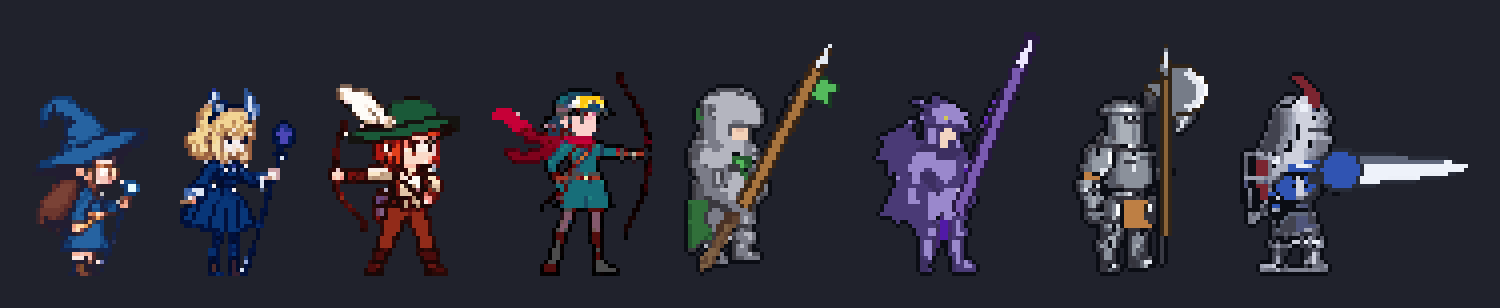
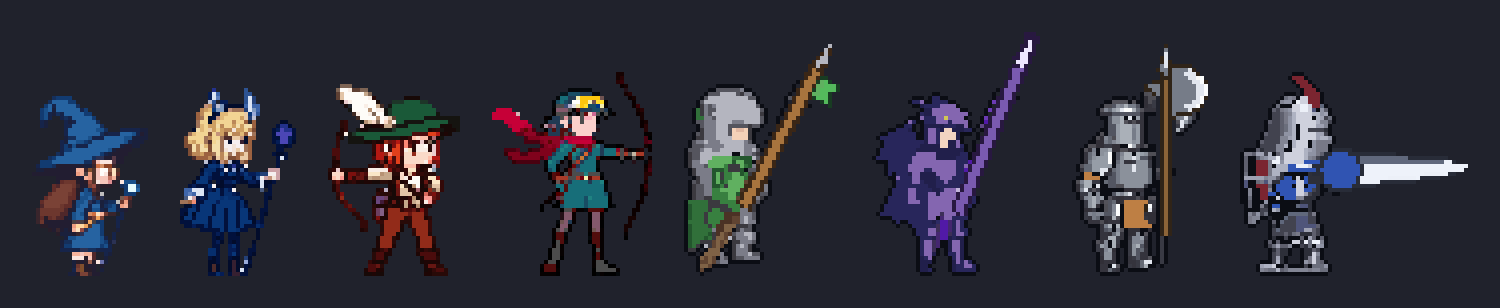
창기사 계열: 용기병 남색·라벤더, 창기사 녹색 보강, 관절 애니 시험(창기사 찌르기 8f) 합격 3.86

Changed region(s): [[0.5827, 0.3214, 0.6747, 0.9058], [0.46, 0.4968, 0.5213, 0.7305], [0.5213, 0.1753, 0.552, 0.2045]]

diff --git a/dev/review/sheets-spear.html b/dev/review/sheets-spear.html
@@ -37,6 +37,14 @@
   </ul>
 </div>
 
+<h2>◇ 관절 애니 시험 — 창기사 찌르기 8f (2026-10-17, PixelLab usage 4)</h2>
+<div class="box"><ol><li>첫 프레임 = <b>pixen 중립 대기</b>(무기 없음·팔 내림, usage 1) — 레인저 교훈: 무기를 든 첫 프레임은 팔 관절을 안 따른다.</li>
+<li><code>dev/spear/skelfit.py</code>: 설계 찌르기(<code>skel.py</code>)의 뼈 <b>각도</b> + 첫 프레임 그림에서 읽은 뼈 <b>길이</b>, 다리는 발을 땅에 두고 무릎 역산 → animate-with-skeleton-v3 192칸 8f (usage 3).</li>
+<li><code>dev/spear/anim_post.py</code>: 2×2 최빈색으로 96칸 → 128칸 발 x 36 → 그림에서 손(살색 덩어리)을 찾아 그 직선으로 모델 창 지우기 → 코드 창 → 8프레임 공통 팔레트 22색.</li>
+<li>검수: 1차 3.14 fix(창이 손보다 3칸 위 — 관절 좌표·갈색 직선 기준) → 손 찾기로 고쳐 <b>3.86 pass</b> (4/4/4/4/4/3/4). 남은 흠: 젖히는 예비동작·팔 뻗음이 약함.</li></ol></div>
+<div class="scroll box"><img class="px" src="sheets-spear/anim/anim-lancer-thrust.gif" alt="창기사 찌르기"> <img class="px" src="sheets-spear/anim/anim-lancer-thrust.png" alt="8프레임" style="max-width:100%"></div>
+<p class="sub"><a href="sheets-spear/anim/lancer-thrust-sheet.png">검수 시트</a> · <a href="sheets-spear/anim/stick-fit-lancer-thrust.png">관절 맞춤 막대 인형</a></p>
+
 <h2>◆ 도트 검수 합격 4종 — 사용자 검수 반영판 (2026-10-17) · 창기사 · 용기병 · 할버디어 · 랜서</h2>
 <div class="box"><b>사용자 검수 반영</b>: "용기병은 사람기사로가야해" → 사람 기사 + 용 투구(얼굴 보임), 꼬리 없음 · 할버디어 허벅지 살색 → 천 서코트 · 랜서 사탕 줄무늬 랜스 → 은색 원뿔 + 파란 손잡이·보호대.
 <ol><li>재검수(r2)에서 같은 그림이 "6등신 사실 비율"로 지적돼 3등신 큰 머리 문구(<code>design5.py CHIBI</code>)로 다시 생성(v11) → 할버디어·랜서 합격.</li>

diff --git a/dev/spear/anim_post.py b/dev/spear/anim_post.py
@@ -1,0 +1,124 @@
+# 관절 애니 결과 후처리 (창 계열): work/<cls>/skel-<act>-<i>.png (192) → 96칸(2×2 최빈색) → 모델이 그린 창 지우기 → 코드 창 얹기
+#  창 위치·각도는 skelfit.py 가 남긴 skel/wpn-<cls>-<act>.json(앞손·뒷손, 192 좌표)에서. 모델 창은 프레임마다 모양이 달라(철퇴처럼 되기도) 쓰지 않는다.
+#   python -I -B anim_post.py <cls> <act>  → work/<cls>/anim-<act>-<i>.png, out/anim-<cls>-<act>.png(줄), out/anim-<cls>-<act>.gif
+import os, sys, json, math
+from collections import Counter
+from PIL import Image
+HERE = os.path.dirname(os.path.abspath(__file__)); sys.path.insert(0, HERE); sys.path.insert(0, os.path.join(HERE, '..', 'sheets-common'))
+import design5 as D5
+from wpn import line_fit, near_line, fill_holes
+WPN = {'lancer': 'spear', 'dragoon': 'dragon', 'halberdier': 'halberd', 'cavalier': 'lance'}
+
+
+def half(im):
+    """192 → 96: 2×2 칸 중 가장 많은 색 (투명이 2칸 이상이면 투명)"""
+    W, H = im.width // 2, im.height // 2; P = im.load(); o = Image.new('RGBA', (W, H)); O = o.load()
+    for y in range(H):
+        for x in range(W):
+            cs = [P[2 * x + a, 2 * y + b] for a in (0, 1) for b in (0, 1)]
+            op = [c for c in cs if c[3] >= 128]
+            if len(op) >= 2: O[x, y] = Counter(c[:3] for c in op).most_common(1)[0][0] + (255,)
+    return o
+
+
+def hands(im):
+    """그림에서 손 찾기: 살색 덩어리 중 맨 위(얼굴)를 뺀 나머지 = 손 [(x, y, 칸들)] (x 큰 순 = 앞손 먼저)"""
+    from pix import POL_comps
+    P = im.load(); W, H = im.size; sk = Image.new('RGBA', im.size); S = sk.load()
+    for y in range(H):
+        for x in range(W):
+            c = P[x, y]
+            if c[3] and c[0] > 170 and c[0] - c[2] > 40 and c[1] > 90 and c[0] - c[1] < 90: S[x, y] = c
+    cs = sorted(POL_comps(sk), key=lambda c: min(y for _, y in c))[1:]
+    hs = [(sum(x for x, _ in c) / len(c), sum(y for _, y in c) / len(c), c) for c in cs if len(c) >= 4]
+    return sorted(hs, key=lambda h: -h[0])
+
+
+def swap_weapon(im, kind, front, back, design_ang):
+    """모델이 그린 창을 지우고 코드 무기를 손에 얹는다 (검수 a2: 관절·갈색 직선에 맞추면 창이 손보다 3칸 위 턱 높이에 떴다).
+    손 둘이 보이면 뒷손 → 앞손 직선, 하나면 그 손을 지나는 설계 각도. 그 직선을 따라 모델 창(자루 2.5·창날 4.0)을 지우되 손 칸은 남긴다"""
+    P = im.load(); W, H = im.size
+    hs = hands(im)
+    if len(hs) >= 2:
+        (fx, fy, fc), (bx, by, bc) = hs[0], hs[1]; a = math.atan2(fy - by, fx - bx); keep = fc | bc
+        if abs(math.degrees(a) - design_ang) > 50: a = math.radians(design_ang)       # 두 손이 엇갈려 보이면 설계 각도
+    elif hs:
+        fx, fy, keep = hs[0]; a = math.radians(design_ang)
+    else:
+        fx, fy = front; keep = set(); a = math.radians(design_ang)
+    dd = (math.cos(a), math.sin(a)); gx, gy = fx, fy
+    pts = [(x, y) for y in range(H) for x in range(W) if P[x, y][3]]
+    er = (set(near_line(pts, (gx, gy), dd, 2.5, -40, 80)) | set(near_line(pts, (gx, gy), dd, 4.0, 10, 80))) - keep
+    body = set(near_line(pts, (gx, gy), dd, 2.5, -40, 6))
+    import colorsys
+    def wpnish(c):           # 몸 쪽 구간(손 뒤~손 앞 6칸)은 자루 색(갈색·어두운 선)만 지운다 — 갑옷·얼굴은 남김
+        h, l, s_ = colorsys.rgb_to_hls(c[0] / 255, c[1] / 255, c[2] / 255)
+        return (0.03 < h < 0.13 and 0.1 < l < 0.55 and s_ > 0.25) or l < 0.12
+    er = {p for p in er if p not in body or wpnish(P[p])}
+    # 2차: 모델 창이 손 직선과 다른 각도면(0·1·6·7 프레임) 남는다 → 갈색 자루 칸으로 모델 창 직선을 맞춰 한 번 더 지운다
+    #  자루 색은 직선 전체, 창날(회색)은 얼굴에서 가로 12칸 밖에서만 (몸 갑옷 보호)
+    br = [p for p in pts if wpnish(P[p]) and not (P[p][0] + P[p][1] + P[p][2] < 60)]
+    if len(br) >= 10:
+        c2, d2, inl = line_fit(br, tol=1.2)
+        if len(inl) >= 10 and max(math.dist(u, v) for u in inl[:1] for v in inl) >= 14:
+            face_x = sum(x for x, _ in pts) / len(pts)
+            for p in near_line(pts, c2, d2, 2.5, -90, 90):
+                if p in keep: continue
+                if wpnish(P[p]) or abs(p[0] - face_x) > 12: er.add(p)
+            for p in near_line(pts, c2, d2, 4.0, -90, 90):
+                if p not in keep and abs(p[0] - face_x) > 14: er.add(p)
+    for p in er: P[p] = (0, 0, 0, 0)
+    fill_holes(im, er)
+    M, Z = 40, 8
+    big = Image.new('RGB', ((W + 2 * M) * Z, (H + 2 * M) * Z), (255, 0, 255))
+    D5.draw_weapon(big, kind, ((gx + M + 0.5) * Z, (gy + M + 0.5) * Z), math.degrees(a), Z)
+    BP = big.load(); o = Image.new('RGBA', (W + 2 * M, H + 2 * M)); o.alpha_composite(im, (M, M)); O = o.load()
+    for y in range(H + 2 * M):
+        for x in range(W + 2 * M):
+            c_ = BP[x * Z + Z // 2, y * Z + Z // 2]
+            if c_ != (255, 0, 255): O[x, y] = c_ + (255,)
+    for (x, y) in keep:                 # 앞손은 창 위에 (쥔 손이 보이게)
+        if hs and (x, y) in hs[0][2]: O[x + M, y + M] = P[x, y]
+    return o.crop((M, M, M + W, M + H))
+
+
+CW, FX = 128, 36          # 게임 칸: 창 계열 128, 발 x = 36 (src/sprites.js 창 발 (36, 112))
+
+
+def place(im):
+    """96칸(발 x 48) → 128 너비, 발 x 36 — 찌르기 창끝이 칸 밖으로 잘리지 않게"""
+    o = Image.new('RGBA', (CW, im.height)); o.alpha_composite(im, (FX - 48, 0)); return o
+
+
+def run(cls, act):
+    wp = json.load(open(os.path.join(HERE, 'skel', f'wpn-{cls}-{act}.json'), encoding='utf-8'))
+    out = []
+    for i, w in enumerate(wp):
+        im = place(half(Image.open(os.path.join(HERE, 'work', cls, f'skel-{act}-{i}.png')).convert('RGBA')))
+        fr = (w['front'][0] / 2 + FX - 48, w['front'][1] / 2); bk = (w['back'][0] / 2 + FX - 48, w['back'][1] / 2)
+        im = swap_weapon(im, WPN[cls], fr, bk, w['ang'])
+        from pix import POL_comps
+        cs = POL_comps(im); Q = im.load()
+        for c_ in cs:
+            if len(c_) < 6 and len(c_) < max(map(len, cs)):
+                for q in c_: Q[q] = (0, 0, 0, 0)                   # 떨어진 6칸 미만 조각 (지운 창 부스러기)
+        im.save(os.path.join(HERE, 'work', cls, f'anim-{act}-{i}.png')); out.append(im)
+    # 프레임 공통 팔레트로 색 줄이기 (생성 결과 68색 → 경보) — pix.reduce (적게 쓰인 색부터 합치기·채도 벌점·살색 가중)
+    from pix import reduce
+    strip = Image.new('RGBA', (CW * len(out), 96))
+    for k, im in enumerate(out): strip.alpha_composite(im, (k * CW, 0))
+    strip = reduce(strip, 22)
+    out = [strip.crop((k * CW, 0, (k + 1) * CW, 96)) for k in range(len(out))]
+    for k, im in enumerate(out): im.save(os.path.join(HERE, 'work', cls, f'anim-{act}-{k}.png'))
+    S = 4; row = Image.new('RGBA', (CW * len(out), 96), (36, 38, 48, 255))
+    for k, im in enumerate(out): row.alpha_composite(im, (k * CW, 0))
+    row.resize((row.width * S, row.height * S), Image.NEAREST).save(os.path.join(HERE, 'out', f'anim-{cls}-{act}.png'))
+    fr = []
+    for im in out:
+        b = Image.new('RGBA', (CW, 96), (36, 38, 48, 255)); b.alpha_composite(im); fr.append(b.resize((CW * 3, 288), Image.NEAREST).convert('P'))
+    fr[0].save(os.path.join(HERE, 'out', f'anim-{cls}-{act}.gif'), save_all=True, append_images=fr[1:], duration=90, loop=0)
+    return len(out)
+
+
+if __name__ == '__main__':
+    print(run(sys.argv[1], sys.argv[2]))

diff --git a/dev/spear/skelfit.py b/dev/spear/skelfit.py
@@ -1,0 +1,101 @@
+# 창 계열 관절 애니 요청 준비 (animate-with-skeleton-v3, 192칸) — 레인저 dev/bowsheets/skelgen.py 방식을 창 계열로.
+#  첫 프레임 = pixen 중립 대기(무기 없음·팔 내림, 로드맵 교훈: 무기를 든 첫 프레임은 팔 관절을 안 따름) → skel/first-<cls>.png (발 96,176)
+#  동작 = skel.py 설계 프레임(to_b46)의 뼈 '각도'를 쓰고, 뼈 '길이'는 첫 프레임 그림에서 눈으로 읽은 관절(BODY_KP)로.
+#   몸통·팔: 각도 그대로(FK), 다리: 발 목표(땅 y=175)로 무릎 역산(IK, 무릎은 앞쪽) — 첫 프레임 뼈 길이로 맞춰도 발이 뜨거나 묻히지 않게.
+#   python -I -B skelfit.py <cls> <act> [seed]  → skel/req-<cls>-<act>.json, skel/wpn-<cls>-<act>.json(프레임별 창 각도·손), skel/stick-fit-<cls>-<act>.png
+import os, sys, json, math, base64, io
+from PIL import Image, ImageDraw
+HERE = os.path.dirname(os.path.abspath(__file__)); sys.path.insert(0, HERE)
+import skel as SK0
+SK = os.path.join(HERE, 'skel'); N = 192; GROUND = 175
+
+# first-<cls>-grid.png (원점 (68, 96), 1칸 = 5px, 격자 4칸) 에서 읽은 관절. RIGHT = 앞(보는 쪽) 팔·다리, LEFT = 뒤
+BODY_KP = {
+    'lancer': {'NECK': (100, 124), 'NOSE': (114, 118), 'RIGHT EYE': (108, 116), 'LEFT EYE': (104, 116), 'RIGHT EAR': (100, 116), 'LEFT EAR': (98, 117),
+               'RIGHT SHOULDER': (110, 128), 'RIGHT ELBOW': (118, 140), 'RIGHT ARM': (120, 151),
+               'LEFT SHOULDER': (92, 128), 'LEFT ELBOW': (90, 140), 'LEFT ARM': (91, 152),
+               'RIGHT HIP': (106, 148), 'RIGHT KNEE': (110, 162), 'RIGHT LEG': (112, 175),
+               'LEFT HIP': (96, 148), 'LEFT KNEE': (98, 162), 'LEFT LEG': (97, 175)},
+}
+DESC = {'lancer': 'young chibi lancer knight, open-faced steel helmet with a small green plume, green tabard over silver plate armor, round pauldrons, '
+                  'short green cape, empty hands (the spear is drawn later)'}
+ACTION = {'thrust': 'lunge forward and thrust a spear with both hands, then recover', 'walk': 'walk cycle', 'slam': 'raise a spear overhead and slam it down'}
+
+d = math.dist
+mid = lambda a, b: ((a[0] + b[0]) / 2, (a[1] + b[1]) / 2)
+ang = lambda a, b: math.atan2(b[1] - a[1], b[0] - a[0])
+at = lambda p, a, L: (p[0] + math.cos(a) * L, p[1] + math.sin(a) * L)
+
+
+def ik_knee(hip, foot, L1, L2):
+    """무릎이 앞(+x)으로 꺾이는 해"""
+    D = max(1e-6, min(d(hip, foot), L1 + L2 - 1e-3)); base = ang(hip, foot)
+    a = math.acos(max(-1, min(1, (L1 * L1 + D * D - L2 * L2) / (2 * L1 * D))))
+    k1, k2 = at(hip, base - a, L1), at(hip, base + a, L1)
+    return k1 if k1[0] >= k2[0] else k2
+
+
+def fit(cls, frames):
+    kp = BODY_KP[cls]
+    L = {'UA': (d(kp['RIGHT SHOULDER'], kp['RIGHT ELBOW']) + d(kp['LEFT SHOULDER'], kp['LEFT ELBOW'])) / 2,
+         'FA': (d(kp['RIGHT ELBOW'], kp['RIGHT ARM']) + d(kp['LEFT ELBOW'], kp['LEFT ARM'])) / 2,
+         'TH': (d(kp['RIGHT HIP'], kp['RIGHT KNEE']) + d(kp['LEFT HIP'], kp['LEFT KNEE'])) / 2,
+         'SH': (d(kp['RIGHT KNEE'], kp['RIGHT LEG']) + d(kp['LEFT KNEE'], kp['LEFT LEG'])) / 2}
+    hm0 = mid(kp['RIGHT HIP'], kp['LEFT HIP']); torso0 = d(hm0, kp['NECK'])
+    ref = SK0.to_b46(SK0.pose()); href = mid(ref['RIGHT HIP'], ref['LEFT HIP'])
+    s = torso0 / d(href, ref['NECK'])                              # 설계 → 그림 크기 비
+    off = {k: (kp[k][0] - kp['NECK'][0], kp[k][1] - kp['NECK'][1]) for k in ('NOSE', 'RIGHT EYE', 'LEFT EYE', 'RIGHT EAR', 'LEFT EAR', 'RIGHT SHOULDER', 'LEFT SHOULDER')}
+    hoff = {k: (kp[k][0] - hm0[0], kp[k][1] - hm0[1]) for k in ('RIGHT HIP', 'LEFT HIP')}
+    out = []
+    for p in frames:
+        p = SK0.to_b46(p); hm = mid(p['RIGHT HIP'], p['LEFT HIP'])
+        R = (hm0[0] + (hm[0] - href[0]) * s, hm0[1] + (hm[1] - href[1]) * s)
+        q = {'NECK': at(R, ang(hm, p['NECK']), torso0)}
+        for k, (ox, oy) in off.items(): q[k] = (q['NECK'][0] + ox, q['NECK'][1] + oy)
+        for side in ('RIGHT', 'LEFT'):
+            sh = q[f'{side} SHOULDER']
+            q[f'{side} ELBOW'] = at(sh, ang(p[f'{side} SHOULDER'], p[f'{side} ELBOW']), L['UA'])
+            q[f'{side} ARM'] = at(q[f'{side} ELBOW'], ang(p[f'{side} ELBOW'], p[f'{side} ARM']), L['FA'])
+            q[f'{side} HIP'] = (R[0] + hoff[f'{side} HIP'][0], R[1] + hoff[f'{side} HIP'][1])
+            foot = (kp[f'{side} LEG'][0] + (p[f'{side} LEG'][0] - ref[f'{side} LEG'][0]) * s, GROUND)
+            q[f'{side} KNEE'] = ik_knee(q[f'{side} HIP'], foot, L['TH'], L['SH'])
+            q[f'{side} LEG'] = at(q[f'{side} KNEE'], ang(q[f'{side} KNEE'], foot), L['SH'])
+        out.append({k: (round(v[0], 2), round(v[1], 2)) for k, v in q.items()})
+    return out, L, s
+
+
+def req(cls, act, seed=7):
+    frames = [p for p, _ in SK0.ACTIONS[act]]
+    fit_frames, L, s = fit(cls, frames)
+    f = Image.open(os.path.join(SK, f'first-{cls}.png')).convert('RGBA'); buf = io.BytesIO(); f.save(buf, 'PNG')
+    body = {'description': DESC[cls], 'action': ACTION[act], 'direction': 'east', 'view': 'side',
+            'first_frame': {'type': 'base64', 'base64': base64.b64encode(buf.getvalue()).decode(), 'format': 'png'},
+            'first_frame_keypoints': SK0.kp(BODY_KP[cls]), 'keypoints': [SK0.kp(q) for q in fit_frames],
+            'template_id': 'mannequin', 'seed': seed, 'no_background': True}
+    json.dump(body, open(os.path.join(SK, f'req-{cls}-{act}.json'), 'w', encoding='utf-8'), ensure_ascii=False)
+    wp = [{'ang': round(math.degrees(ang(q['LEFT ARM'], q['RIGHT ARM']))) if a is None else a, 'front': q['RIGHT ARM'], 'back': q['LEFT ARM']}
+          for q, (_, a) in zip(fit_frames, SK0.ACTIONS[act])]
+    json.dump(wp, open(os.path.join(SK, f'wpn-{cls}-{act}.json'), 'w', encoding='utf-8'))
+    # 확인 그림: 첫 프레임 + 읽은 관절, 그다음 맞춘 프레임 막대 인형 (흐린 회색 = 첫 프레임)
+    S = 3; tiles = []
+    for i, q in enumerate([BODY_KP[cls]] + fit_frames):
+        t = Image.new('RGBA', (N * S, N * S), (20, 22, 30, 255))
+        if i == 0: t.alpha_composite(f.resize((N * S, N * S), Image.NEAREST))
+        dr = ImageDraw.Draw(t)
+        dr.line([(0, (GROUND + 1) * S), (N * S, (GROUND + 1) * S)], fill=(90, 90, 100), width=1)
+        if i:
+            for a, b in SK0.BONES: dr.line([(BODY_KP[cls][a][0] * S, BODY_KP[cls][a][1] * S), (BODY_KP[cls][b][0] * S, BODY_KP[cls][b][1] * S)], fill=(70, 72, 84), width=2)
+            w = wp[i - 1]; a_ = math.radians(w['ang']); g = w['front']
+            dr.line([((g[0] - math.cos(a_) * 20) * S, (g[1] - math.sin(a_) * 20) * S), ((g[0] + math.cos(a_) * 40) * S, (g[1] + math.sin(a_) * 40) * S)], fill=(200, 150, 80), width=3)
+        for a, b in SK0.BONES:
+            col = (255, 220, 90) if 'RIGHT' in a + b else (120, 200, 255)
+            dr.line([(q[a][0] * S, q[a][1] * S), (q[b][0] * S, q[b][1] * S)], fill=col, width=3)
+        tiles.append(t.crop((50 * S, 90 * S, 170 * S, 184 * S)))
+    W_, H_ = tiles[0].size; m = Image.new('RGBA', ((W_ + 6) * len(tiles), H_), (40, 42, 52, 255))
+    for i, t in enumerate(tiles): m.paste(t, (i * (W_ + 6), 0))
+    m.save(os.path.join(SK, f'stick-fit-{cls}-{act}.png'))
+    return {k: round(v, 1) for k, v in L.items()}, round(s, 3)
+
+
+if __name__ == '__main__':
+    print(req(sys.argv[1], sys.argv[2], int(sys.argv[3]) if len(sys.argv) > 3 else 7))

diff --git a/dev/spear/plx.py b/dev/spear/plx.py
@@ -8,7 +8,7 @@ HERE = os.path.dirname(os.path.abspath(__file__))
 sys.path.insert(0, os.path.join(HERE, '..', 'pixellab'))
 from pl import call
 
-CAP = 23          # 로드맵 승인: 원형 마네킹 usage 11 + 기준 그림 정리 직업당 1회 7 (2026-10-17) + v11 3등신 재정리 4 (2026-10-17, 재시도 0) + v12 얼굴 투구 2 (2026-10-17, 재시도 0)
+CAP = 27          # 로드맵 승인: 원형 마네킹 usage 11 + 기준 그림 정리 직업당 1회 7 (2026-10-17) + v11 3등신 재정리 4 (2026-10-17, 재시도 0) + v12 얼굴 투구 2 (2026-10-17, 재시도 0) + 관절 애니 시험 4 (창기사 pixen 중립 1 + 찌르기 8f 3, 2026-10-17, 재시도 0)
 FLOOR = 300
 LOG = os.path.join(HERE, 'usage.md')
 STATE = os.path.join(HERE, 'usage.json')
@@ -113,5 +113,9 @@ if __name__ == '__main__':
         body = {'image': b64file(src), 'image_size': {'width': 256, 'height': 256}, 'output_size': {'width': 64, 'height': 64},
                 'fixer': True, 'init_image_strength': 200, 'seed': seed}
         run('/image-to-pixelart', body, cls, f'{name}: 기준 그림 정리 256→64', os.path.join(HERE, 'work', cls, name))
+    elif a[1] == 'skel':       # plx.py skel <cls> <act>  — skelfit.py 가 만든 skel/req-<cls>-<act>.json 본문으로 animate-with-skeleton-v3 (192칸)
+        cls, act = a[2], a[3]
+        body = json.load(open(os.path.join(HERE, 'skel', f'req-{cls}-{act}.json'), encoding='utf-8'))
+        run('/animate-with-skeleton-v3', body, cls, f'skel-{act}: animate-with-skeleton-v3 192 {len(body["keypoints"])}f', os.path.join(HERE, 'work', cls, f'skel-{act}'))
     elif a[1] == 'bal':
         print('balance', bal(), 'self', state()['used'])

diff --git a/dev/spear/pix.py b/dev/spear/pix.py
@@ -27,7 +27,7 @@ FIX = {'lancer': ('surcoat_green',),          # 검수 r2: 녹색 없음
        'halberdier': ('surcoat_orange', 'tabard', 'shoulders'),   # tabard: 반바지처럼 갈린 주황 → 한 장 서코트 (로드맵 2026-10-17)
        'cavalier': ('surcoat_blue', 'red_up')}
 # v11 3등신 재정리본 (SPEC 키별): 이미 색이 맞아 수리가 적다. 용기병만 은→보라 판금
-FIX.update({'lancer12': ('green_up', 'plate_flat'), 'dragoon12': ('plate_flat', 'purple_light'),   # plate_flat: 검수 r4 점박이 잡음
+FIX.update({'lancer12': ('green_up', 'plate_flat', 'surcoat_green'), 'dragoon12': ('plate_flat', 'purple_split'),   # plate_flat: 검수 r4 점박이 잡음
              'lancer11': ('green_up',), 'dragoon11': ('purple_light',), 'halberdier11': (), 'cavalier11': ('surcoat_blue',)})   # 정리본 녹색·파랑이 탁하고 작다
 # 무기를 얹은 뒤 하는 수리: 용기병 노란 눈 (무기 색을 빼야 머리 앞 끝을 찾는다)
 AFTER = {'dragoon': ('eye_after',)}

diff --git a/dev/spear/fix.py b/dev/spear/fix.py
@@ -227,6 +227,13 @@ def green_up(im, ramp=((22, 58, 32), (40, 96, 50), (62, 138, 70), (104, 182, 100
     return im
 
 
+def purple_split(im):
+    """용기병 r5 "보라 한 톤 덩어리" (로드맵 2026-10-17): 어두운 반(망토·그늘)은 남색 쪽, 밝은 반(판금 면)은 붉은 라벤더 쪽으로 색상을 갈라 대비를 만든다"""
+    dark = ((22, 20, 52), (40, 38, 92), (66, 64, 132))
+    light = ((126, 96, 170), (170, 136, 210), (222, 200, 246))
+    return purple_plate(im, dark + light)
+
+
 def surcoat_green(im):
     """창기사: 가슴~무릎 가운데 무채색 칸을 녹색 서코트 3단으로 — 검수 r2 "녹색 계열이 없음, 회색 판금뿐" """
     gray = lambda c: _hls(c)[2] < 0.22 and 60 < lum(c) < 210

diff --git a/docs/specs/legacy-class-sheets.md b/docs/specs/legacy-class-sheets.md
@@ -211,6 +211,7 @@
 - 2026-10-17 창기사 계열 사용자 검수 반영 ("용기병은 사람기사로가야해", 할버디어 허벅지 살색, 랜서 사탕 줄무늬 랜스): 목표 문장 실패 조건에 '용인간·짐승 몸', '맨허벅지처럼 보임', '사탕 줄무늬' 추가. 랜스 = 은색 3단 원뿔(밑동 9칸) + 파란 손잡이·보호대, 창·용창 자루 4칸. 재검수(r2)에서 같은 그림이 6등신 비율로 지적돼 3등신 큰 머리 문구(`design5.py CHIBI`)로 v11 재생성 → 할버디어 halberdier11-51 3.71 · 랜서 cavalier11-11 3.71 합격. **교훈: 닫힌 투구는 46px 에서 얼굴 없는 덩어리가 된다** — 창기사 v11 '회색 골렘' 2.86, 용기병 v11 '가고일' 3.14. 그림체 B 기준(마법사·레인저)은 얼굴이 보이므로 얼굴 트인 투구(창기사 sallet, 용기병 = 용 윗턱이 이마를 덮고 아래 사람 얼굴)로 v12. 후처리 교훈: 공용 polish 의 median-cut 14색이 작은 색 영역(빨간 볏·파랑 서코트·녹색·얼굴 살색)을 회색에 섞어 지운다 → `pix.py reduce`(적게 쓰인 색부터 가까운 색에 합치기, 채도 차 벌점, 살색 가중) 18색. 축소본(`pix.py postsh`, PixelLab 없이 shrink_body)도 같이 검수(검사 계열 교훈) — 이 계열은 축소본이 얼굴을 잃어 낮음(창기사 3.29, 용기병 3.00) → 정리본 채택. 판금 점박이는 `fix.plate_flat`(4단 + 외톨이 점 흡수). **4종 재검수 합격**: 창기사 lancer12-11 3.57 · 용기병 dragoon12-51 3.57 · 할버디어 halberdier11-51 3.71 · 랜서 cavalier11-11 3.71, 실루엣 IoU 0.26~0.64. PixelLab 누계 23 (cap 23, 로드맵 승인). 검토 `sheets-spear.html` ◆절(lineup + 마법사·레인저와 그림체 비교). 사용자 확인 대기. 다음: 관절 애니 시험(창기사 찌르기 8f) — 첫 프레임은 무기 없는 중립 대기(필요하면 edit-image-pixen 1회), 손 위치에서 관절 각도 역산(레인저 교훈).
 - 2026-10-17: 관절 애니 1단계(로드맵 승인 5) 성기사 평타 **미달**. pixen 중립 대기 1(usage 1.0 — 명세대로 1, 키 47→52 라 정강이 3줄 스크립트로 뺌) + skeleton-v3 192칸 15f 1(usage 4.0). 팔은 관절을 따랐으나 몸통·다리가 거의 그대로, 모델이 칼·회색 잔상을 그림, 방패가 옮겨 다님 → 비평 평균 2.57(움직임 2) 다시. 2단계 안 함. 계열 누적 33. 관절 설계 `anim_plan.py`(손 목표 역산, 3등신 팔 길이 실측 18+18/192), 후처리 `anim_post.py`. 원인 추정: 동작 글에 칼·잔상 금지 없음, 캐릭터가 캔버스의 80% 를 차지해 몸 이동이 상대적으로 작음(성공한 10-16 시험은 1/3), 방패는 관절이 없음.
 
+- 2026-10-17 창기사 계열 후속: 로드맵 지시로 용기병 보라 한 톤 → `fix.purple_split`(어두운 반 남색·밝은 반 라벤더), 창기사 녹색 부족 → `surcoat_green` 추가, 재검수 창기사 3.57 · 용기병 3.71 합격. **관절 애니 시험 (창기사 찌르기 8f) 합격 3.86**: pixen 중립 대기 첫 프레임(usage 1) → `skelfit.py`(설계 뼈 각도 + 그림 뼈 길이, 다리 IK) → skeleton-v3 192 8f(usage 3) → `anim_post.py`(96칸·128칸 발 x 36·그림에서 손을 찾아 모델 창 지우고 코드 창·공통 22색). 교훈: 코드 창을 관절 좌표나 갈색 직선에 맞추면 손보다 3칸 위에 뜬다(1차 3.14) — 그림에서 손을 찾아 맞춘다. PixelLab 누계 27 (cap 27). 검토 `sheets-spear.html` ◇절. 다음: 나머지 계획서(15f 묶음) 로드맵 승인 대기.
 ## 남은 일 / 미정
 - 2026-10-17 (로드맵, 레인저 교훈): skeleton-v3 는 첫 프레임이 무기를 겨눈 자세면 팔 관절을 따르지 않고 그 팔 모양을 지킨다(다리는 따름). 관절 애니 첫 프레임은 "팔 내린 중립 대기·빈손·무기 없음"으로 — 기준 그림이 무기를 든 자세면 계획서에 `edit-image-pixen` 중립 편집 1회(usage 1)를 넣는다. 첫 프레임 뼈 길이에 맞추면 팔이 짧아지니 목표 손 위치에서 관절 각도를 역산(레인저 `skelgen.py` `solve_hands` 참고).
 - 2026-10-16 레인저 계열 보류 (로드맵 검수 요청): 덧그리기 전 PixelLab 원본(마네킹)을 몽타주로 확인 — 활 쏘기는 뒷손 시위 당김이 없고 앞팔만 조금(손 약 4도트), 석궁 쏘기는 거의 정지, 공성 쏘기만 반동이 보임, 활 하늘 쏘기는 팔을 머리 위로 치켜듦(당기기 없음), 걷기 3종은 좋음. 검사 계열과 같은 "공격 때 몸·팔이 안 움직임" 문제가 원본부터 있다. 남은 PixelLab 호출 없음(usage 12 그대로), approved.txt 비움, SHEET_ON false. 확인 `dev/bowsheets/motion.py`, 검토 0-1절.

diff --git a/dev/spear/usage.md b/dev/spear/usage.md
@@ -22,3 +22,5 @@
 | 16 | cavalier | `/image-to-pixelart` | cavalier11-11-pl: 기준 그림 정리 256→64 | 1.0 | 21.0 | 1068.0 |
 | 17 | lancer | `/image-to-pixelart` | lancer12-11-pl: 기준 그림 정리 256→64 | 1.0 | 22.0 | 1054.0 |
 | 18 | dragoon | `/image-to-pixelart` | dragoon12-51-pl: 기준 그림 정리 256→64 | 1.0 | 23.0 | 1052.0 |
+| 19 | lancer | `/edit-image-pixen` | neutral: same young chibi lancer knight, same face, same colors and o | 1.0 | 24.0 | 1043.0 |
+| 20 | lancer | `/animate-with-skeleton-v3` | skel-thrust: animate-with-skeleton-v3 192 8f | 3.0 | 27.0 | 1032.0 |
